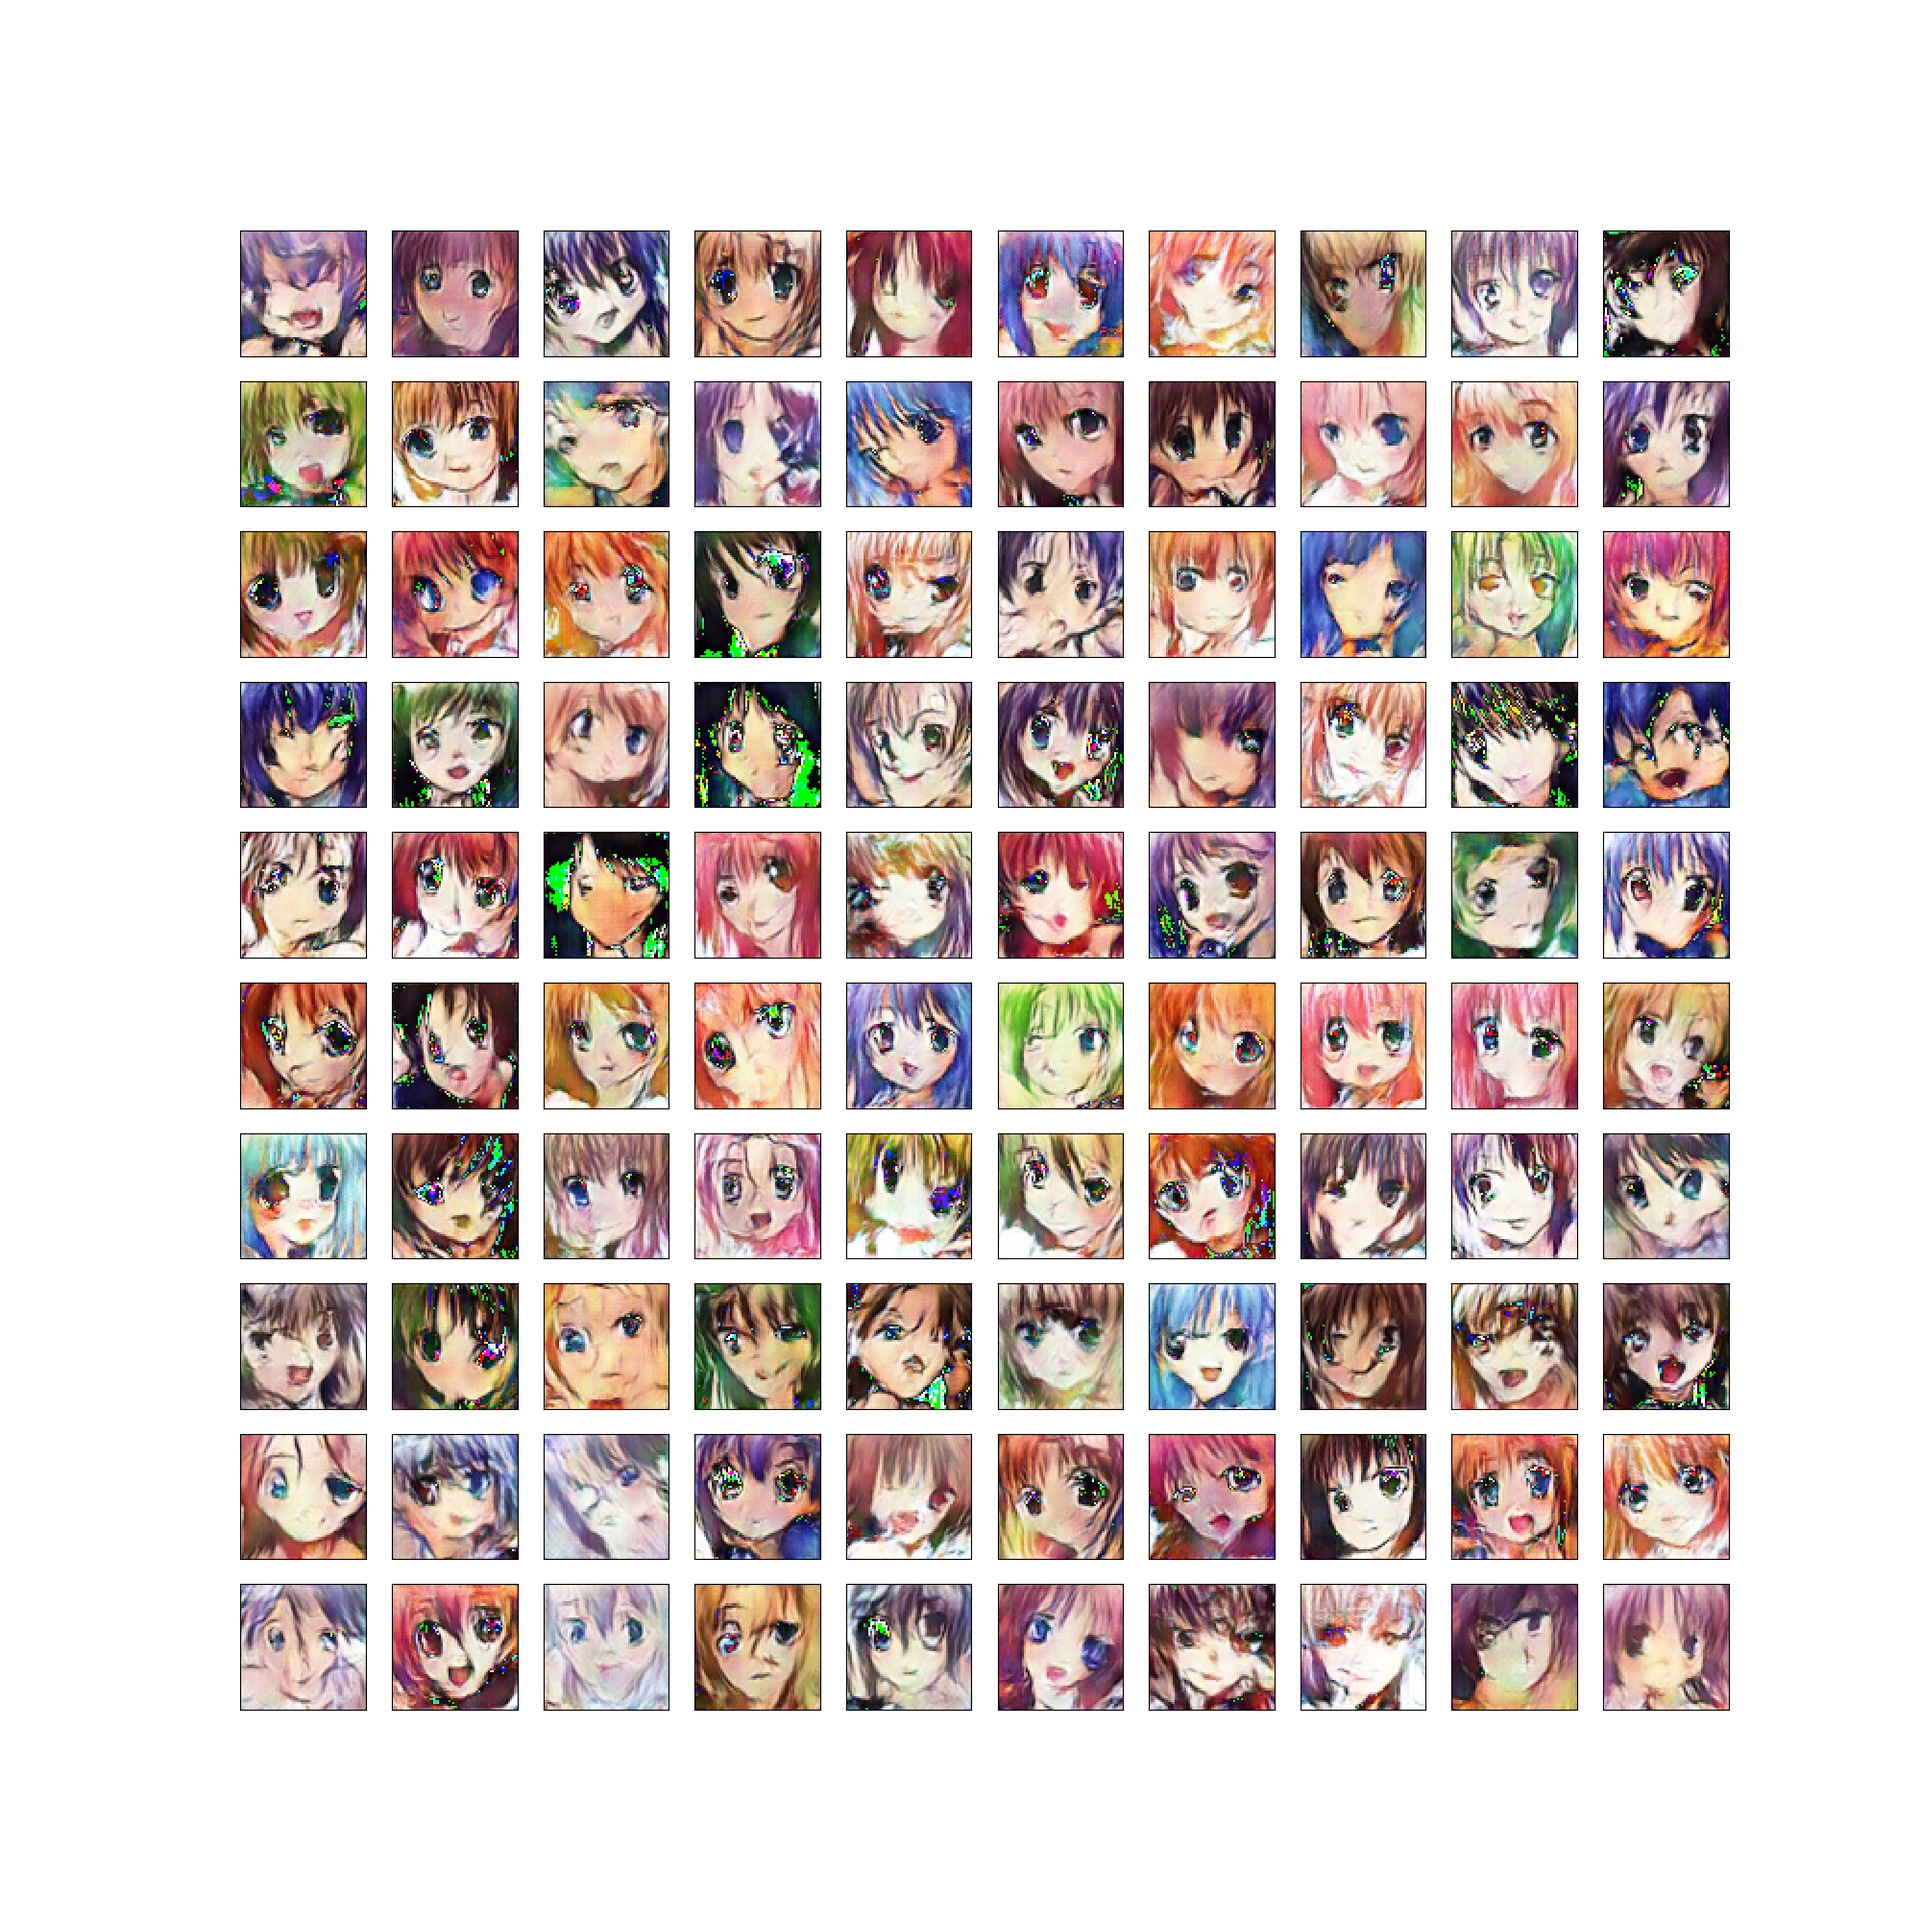
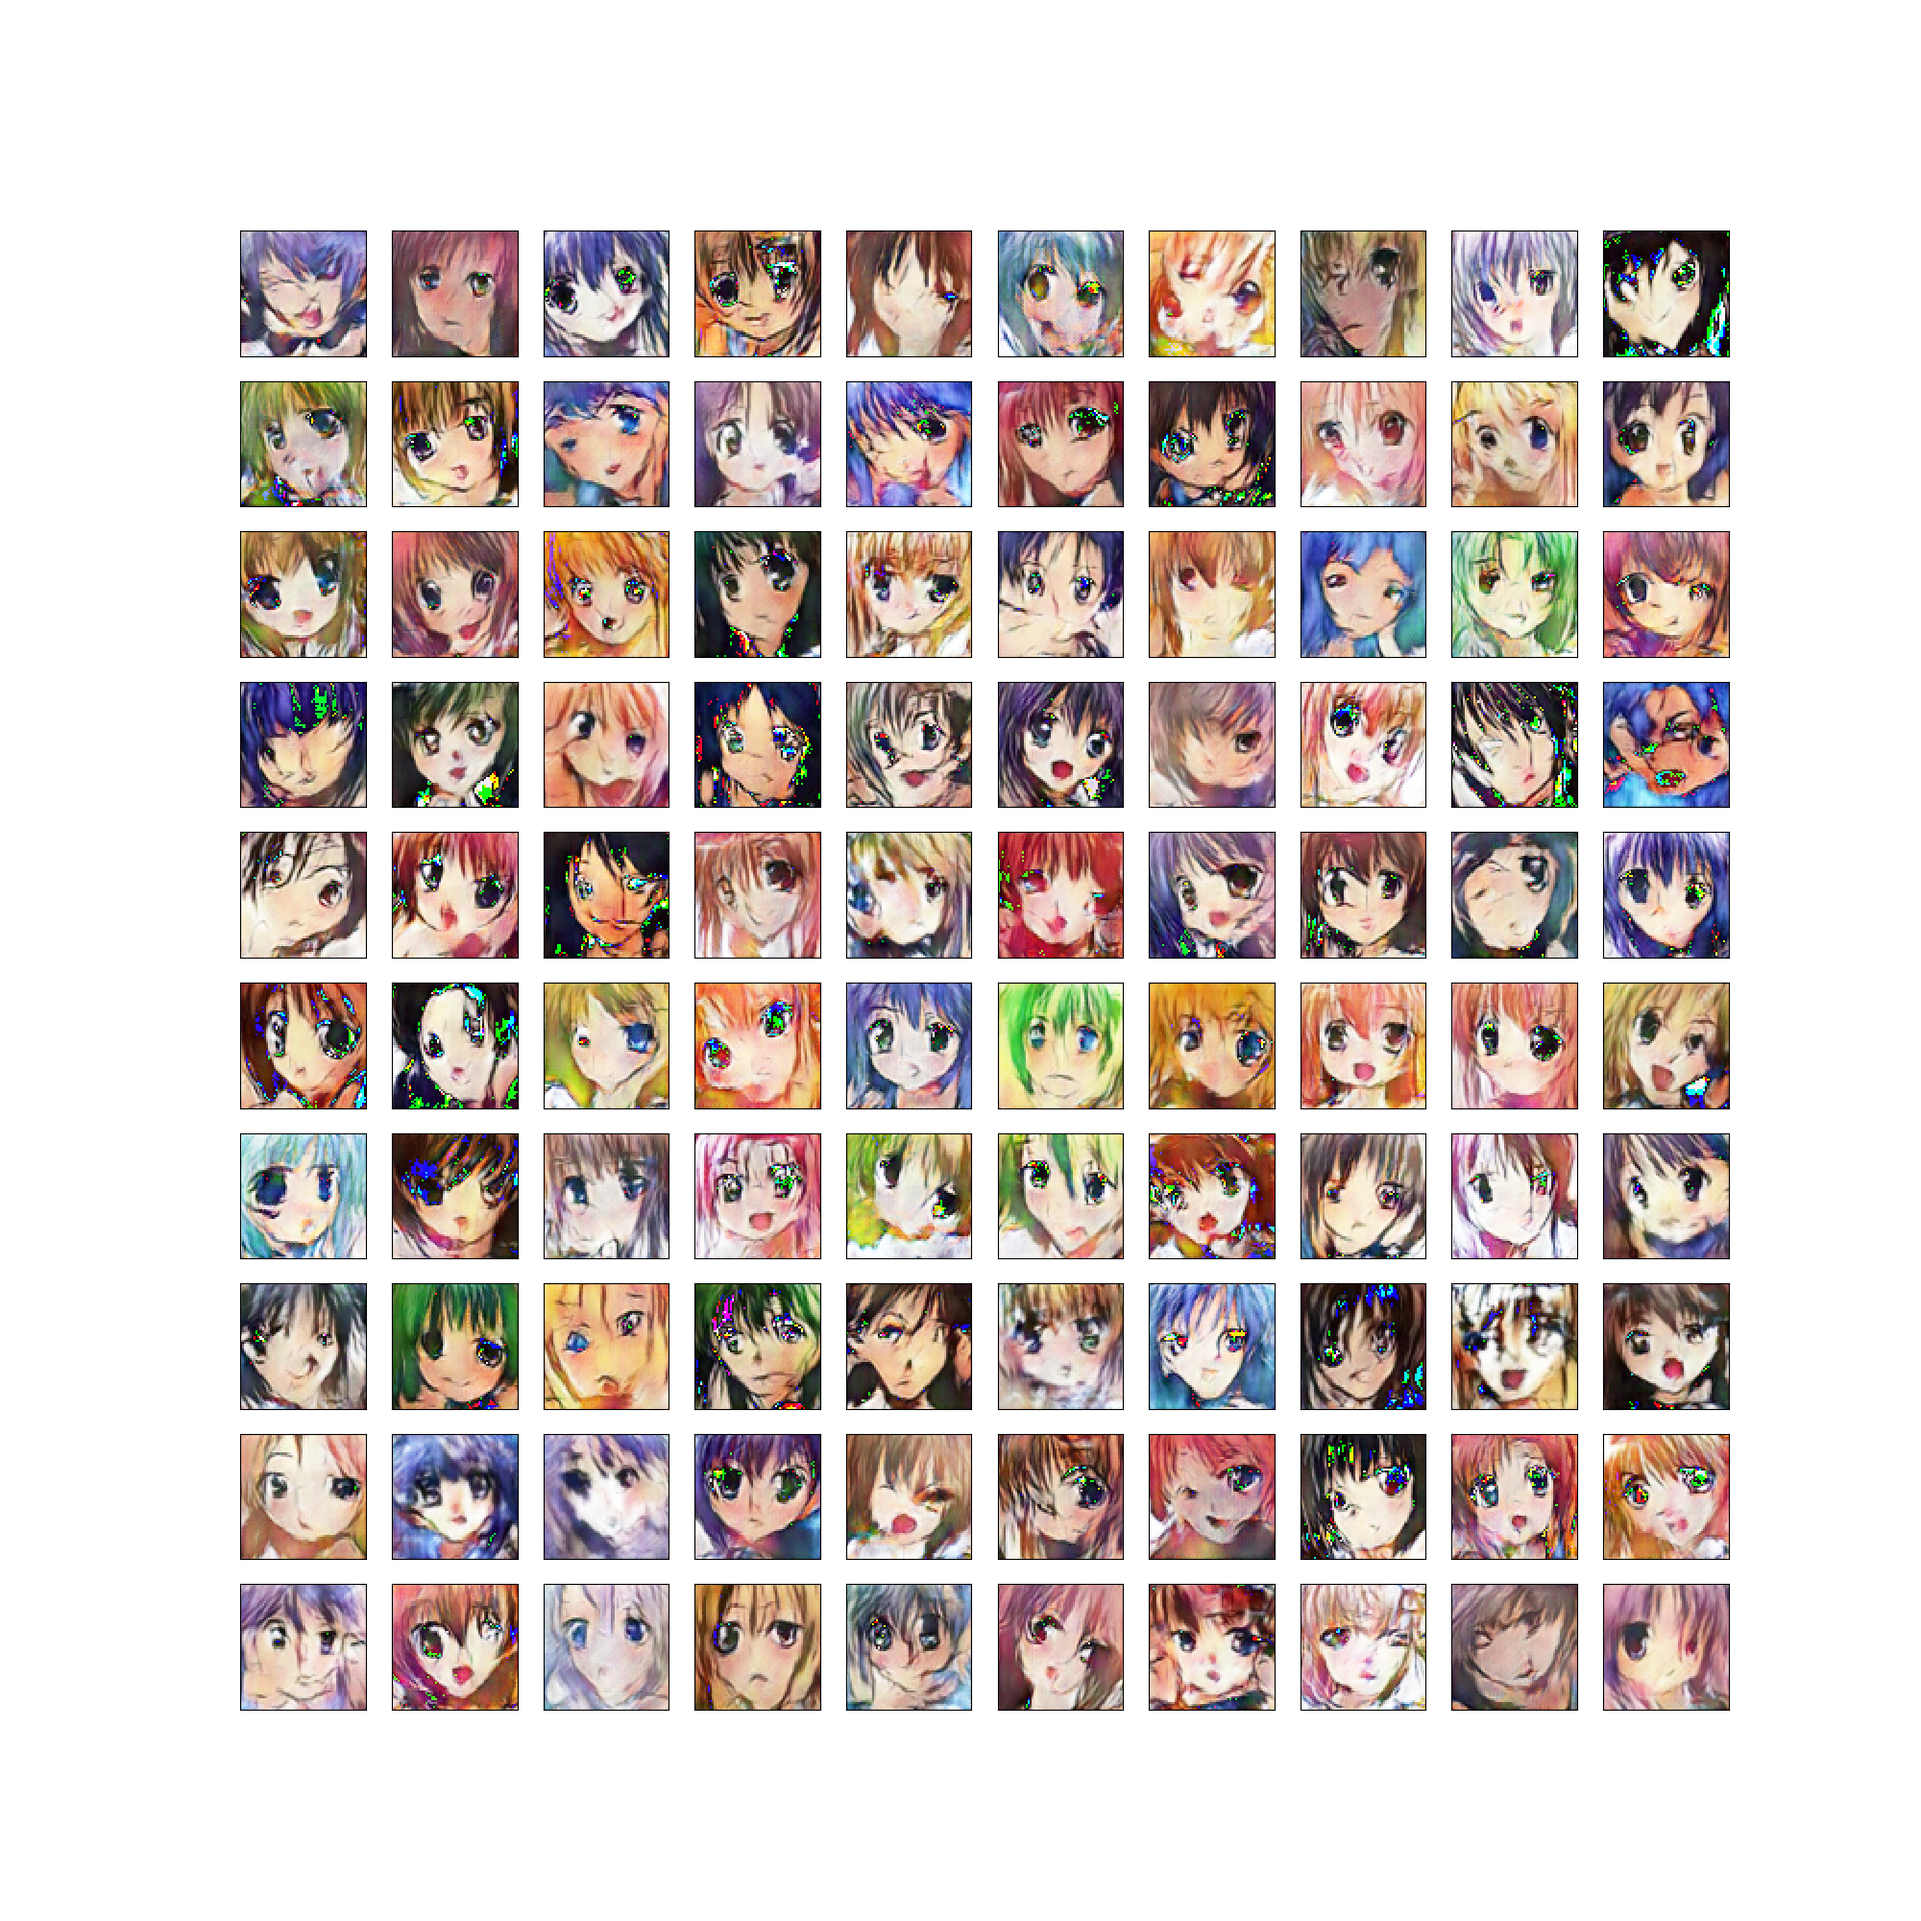
.

diff --git a/README.md b/README.md
@@ -8,5 +8,5 @@ animeface-character-datasetを使用したDCGANによるアニメキャラクタ
 ## 実行結果
 訓練画像  
 ![](https://github.com/s059ff/dcgan-cartoon/blob/master/sample/real.png)  
-Generatorが生成した画像(100エポック)  
+Generatorが生成した画像(200エポック)  
 ![](https://github.com/s059ff/dcgan-cartoon/blob/master/sample/fake.png)  
